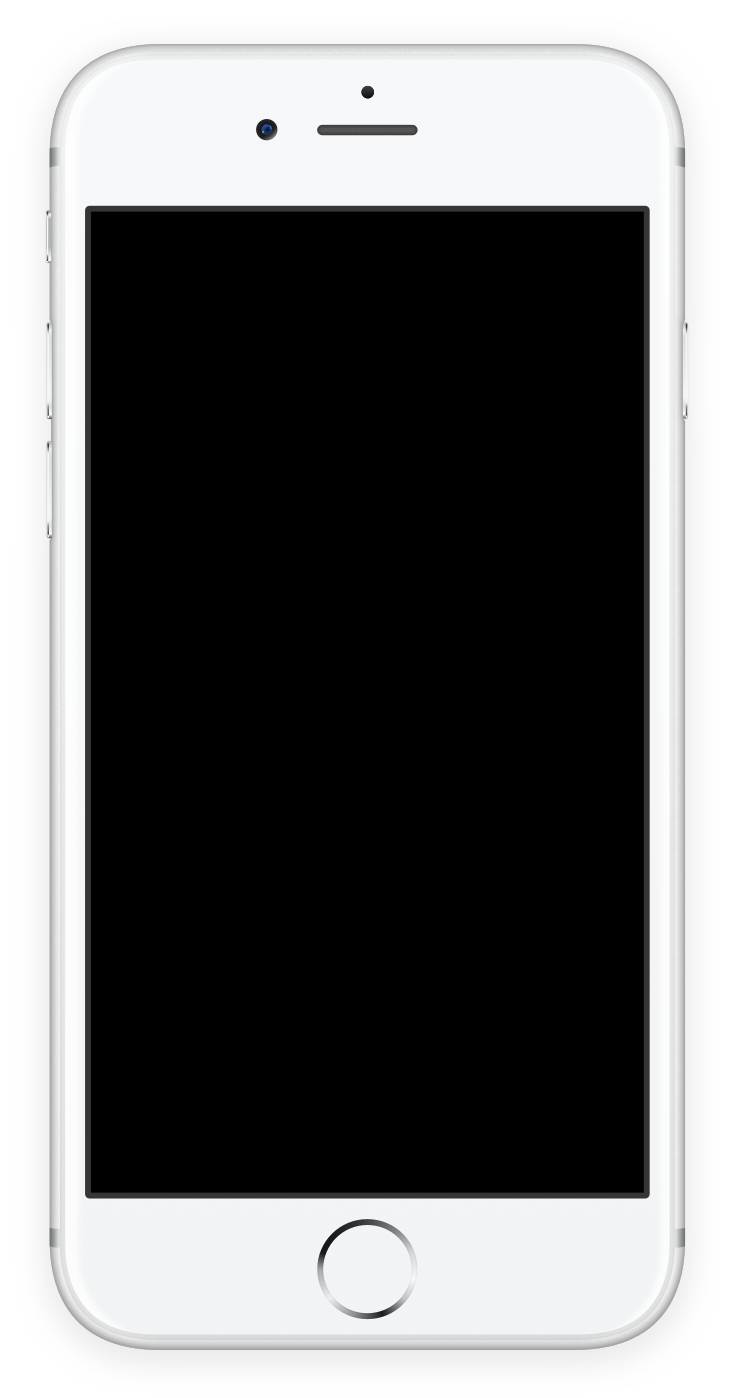
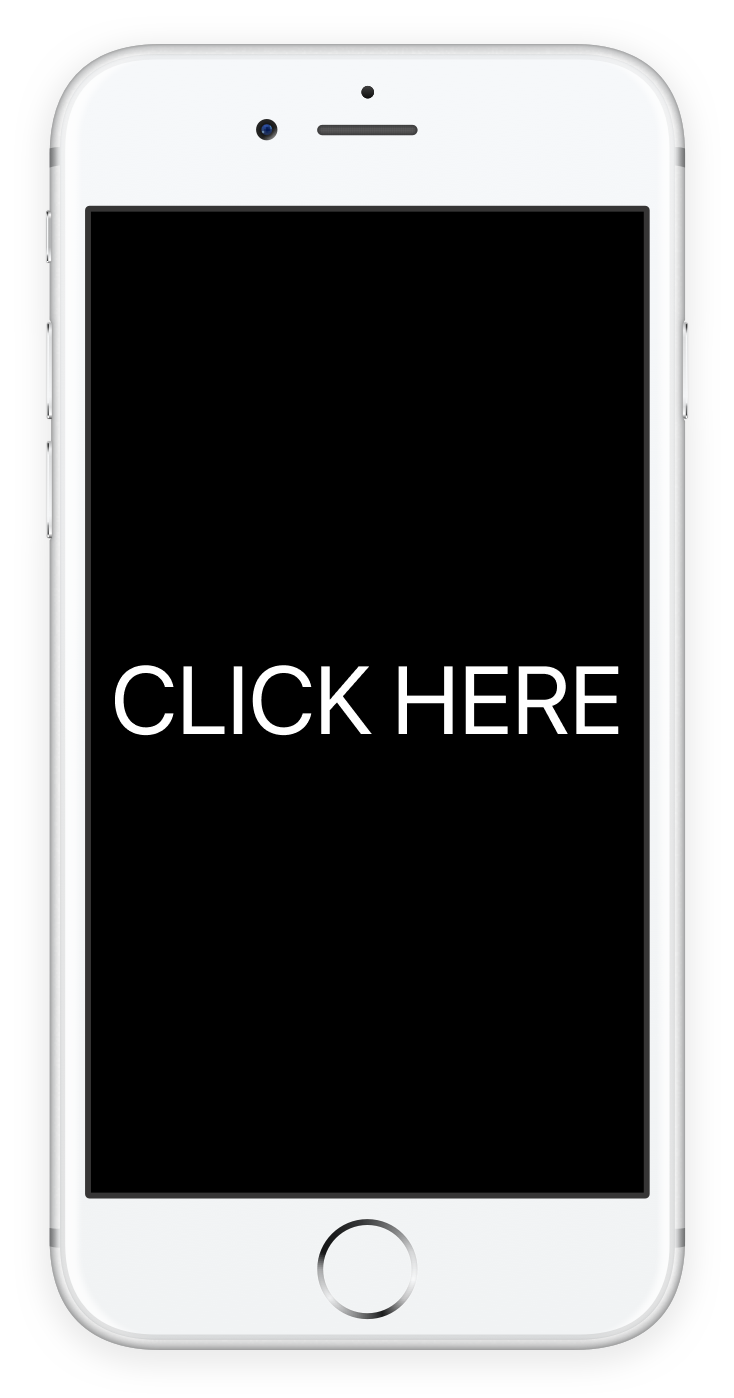
Add animation and click event to phone image

Changed region(s): [[0.1499, 0.4614, 0.5095, 0.5229], [0.5395, 0.4614, 0.8392, 0.5229]]

diff --git a/javascript.js b/javascript.js
@@ -9,3 +9,12 @@ function openform() {
 function closeForm() {
   document.getElementById("myForm").style.display = "none";
 }
+
+let rickroll = "https://variety.com/wp-content/uploads/2021/07/Rick-Astley-Never-Gonna-Give-You-Up.png";
+
+document.getElementById("phone").addEventListener("click", function() {
+  document.getElementById("phone").src = rickroll;
+  document.getElementById("phone").style.animationName = "phone";
+  document.getElementById("phone").style.animation = "phone 0.5s linear infinite";
+  document.getElementById("phone").style.animationDelay = "1.5s";
+})

diff --git a/index.html b/index.html
@@ -11,7 +11,7 @@
 
 <body>
     <div class="grid-container">
-        <div class="grid-item item2"><img class="phone" src="assets/iphone.png"></div>
+        <div class="grid-item item2"><img class="phone" id="phone" src="assets/iphone.png"></div>
         <div class="grid-item item3"><img class="logo" src="assets/logo.svg">
             <h1>Daily tappable tech new and stories</h1>
             <p>Every weekday Sip surfaces the most interesting and important tech stories of the day,

diff --git a/styles.css b/styles.css
@@ -39,16 +39,7 @@ body {
     width: 367px;
     height: 699px;
     background-size: 367px 699px;
-    animation-name: phone;
-    animation: phone 0.5s linear infinite;
-    animation-delay: 1.5s;
     cursor: pointer;
-}
-
-.phone:hover {
-    animation: phone 0.1ms linear infinite;
-    width: 10px;
-    filter: blur(50px);
 }
 
 .logo {
